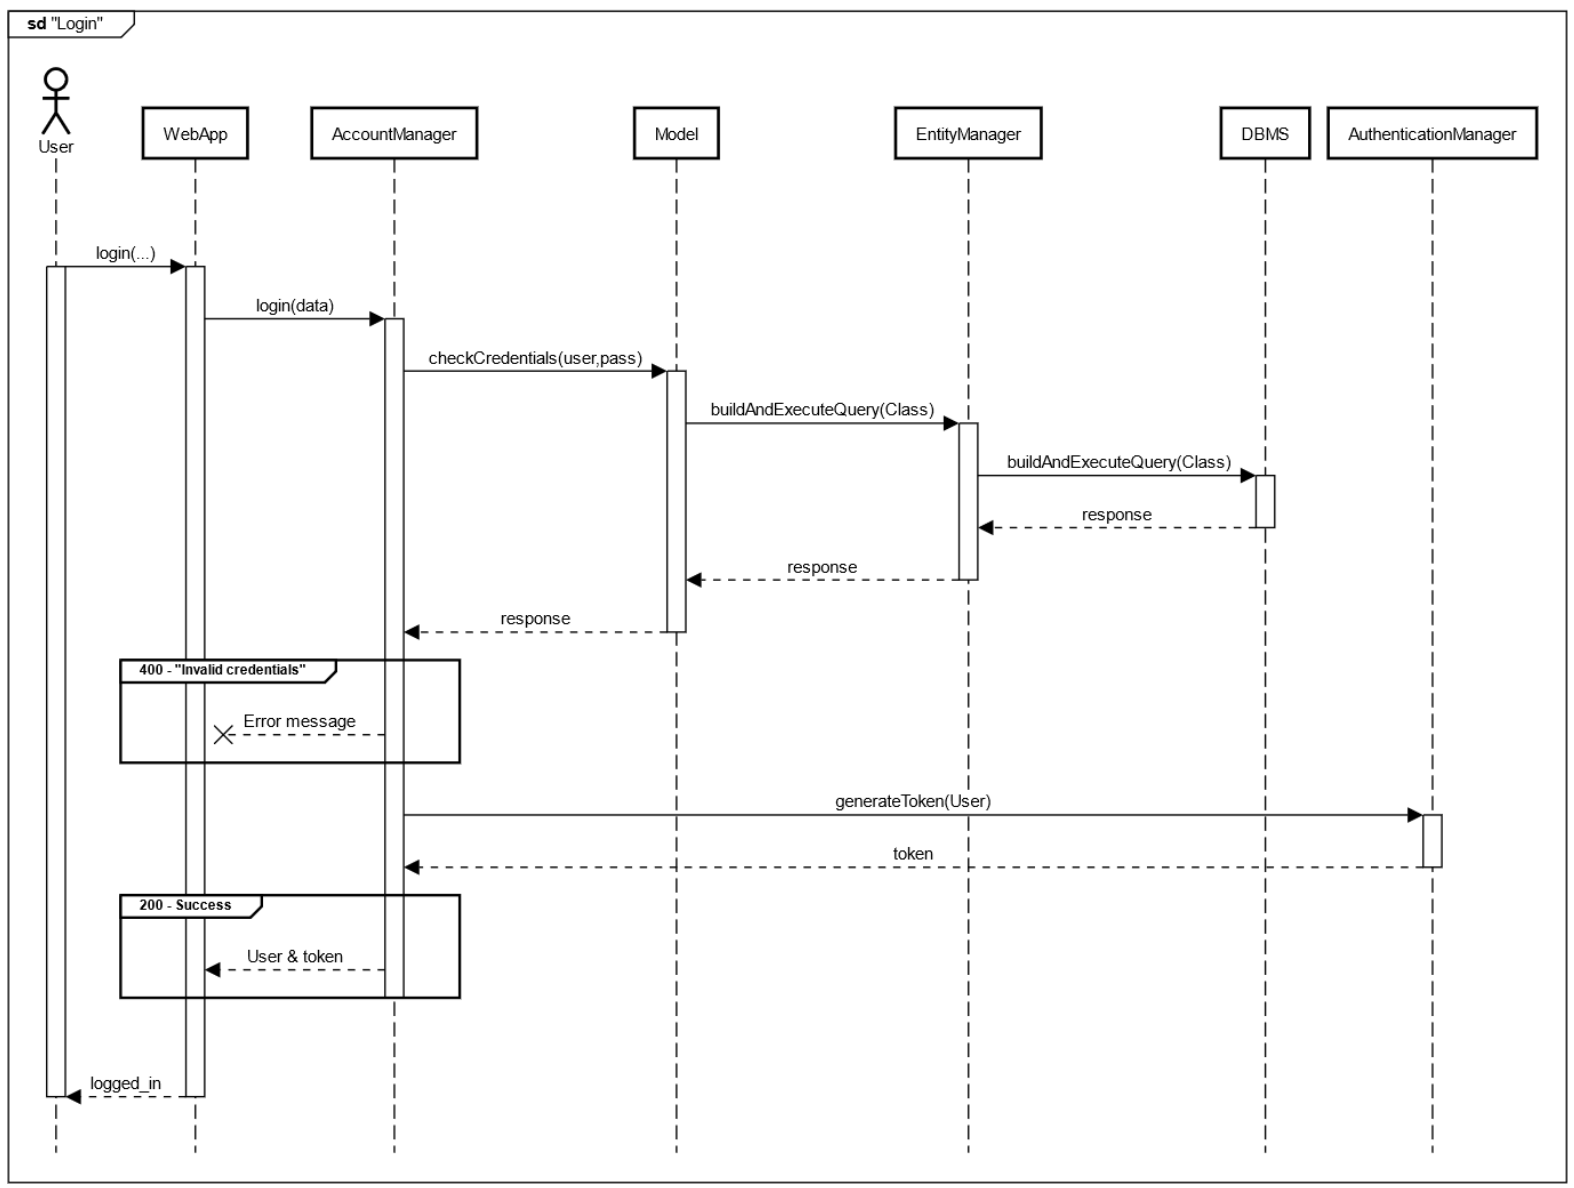
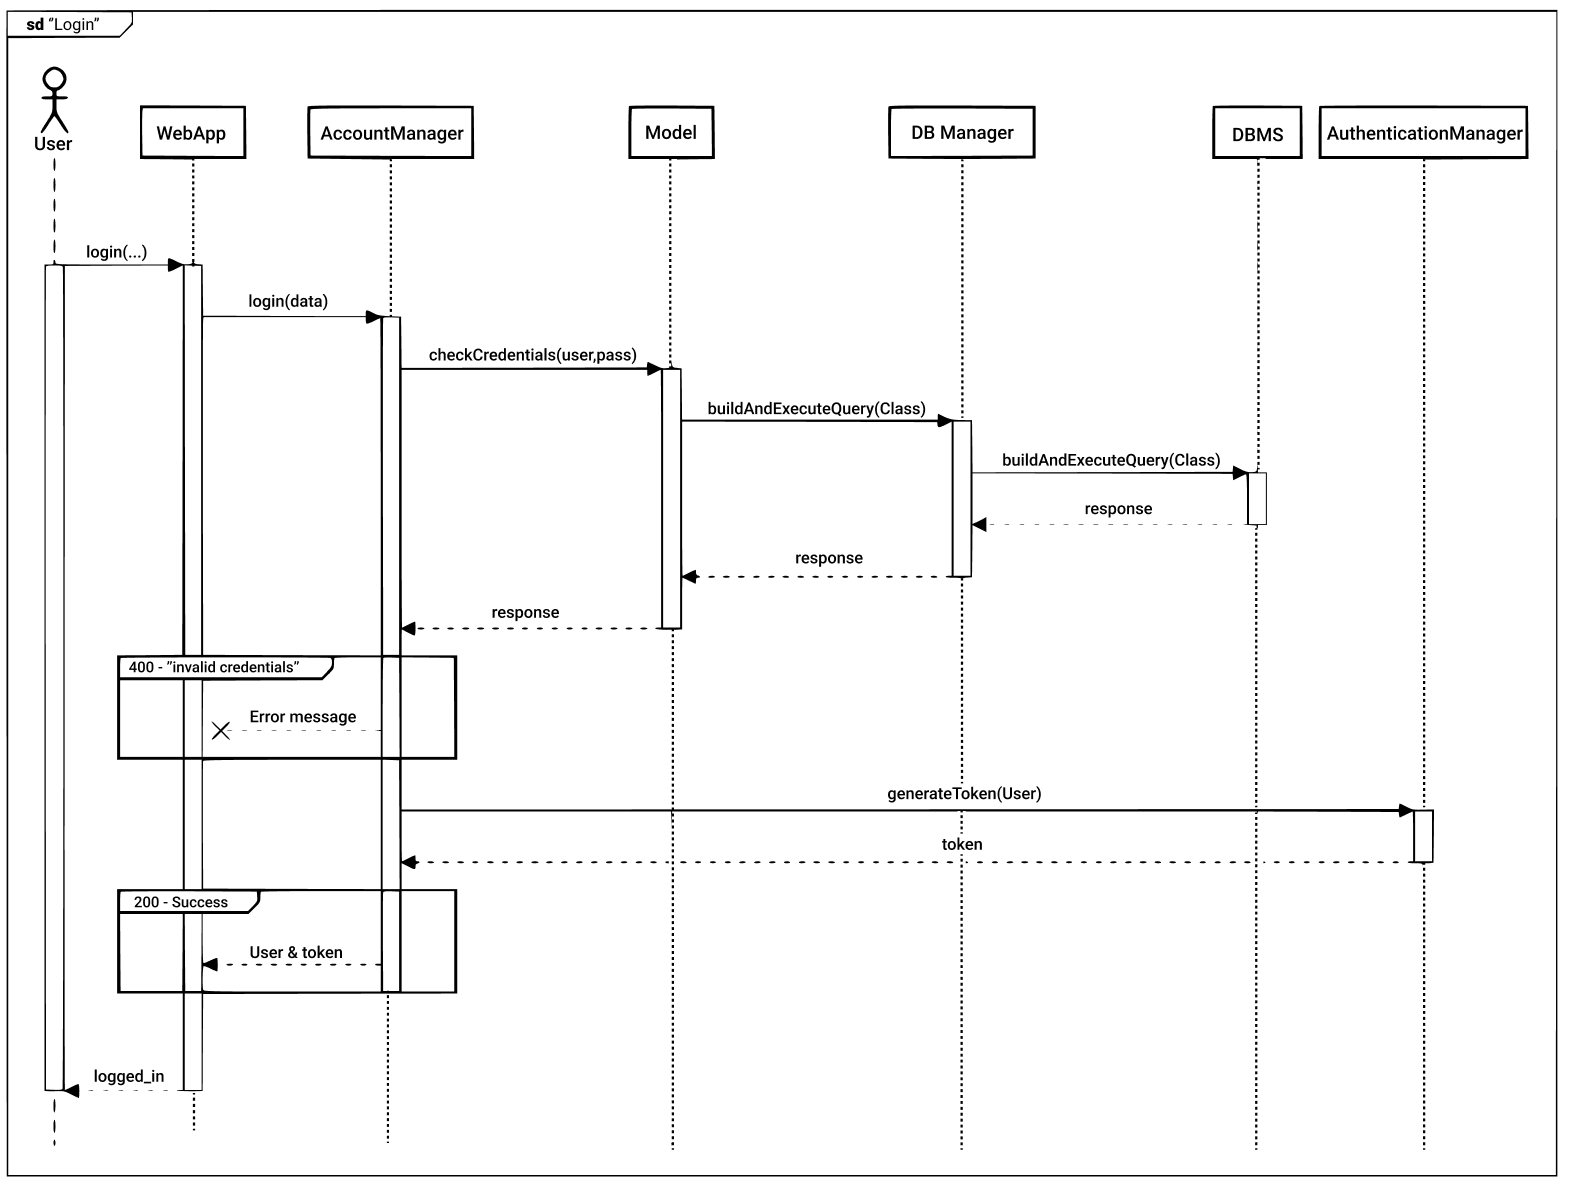
Updated login

diff --git a/DD.tex b/DD.tex
@@ -210,7 +210,7 @@ The web server resides in the De Militarized Zone and is the primary interface f
 \begin{figure}[H]
     \centering
     \includegraphics[scale = 0.50]{DD_figures/SingleDiagrams/loginDiagram.png}
-    \caption{University Sign Up Page}
+    \caption{Login}
     \centering
 \end{figure}
 \subsection{Component Interfaces}
